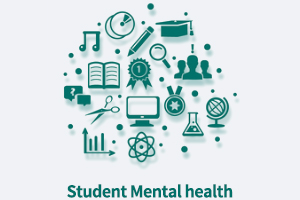
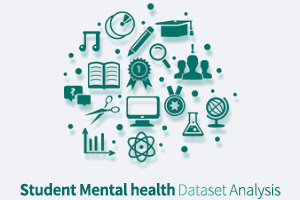
이미지 제목수정, 사이드바 내용 수정

Changed region(s): [[0.06, 0.9, 0.96, 1.0]]

diff --git a/app.py b/app.py
@@ -6,23 +6,22 @@ from app_ml import run_app_ml
 
 
 def main():
-    #sidebar
     img_url2 = 'img/smh_side_top.jpg'
     st.sidebar.image(img_url2)
-    st.sidebar.markdown(feature, unsafe_allow_html=True)
+    title = '<div style="color:#006D64; font-size:44px; font-weight:900;">Student Mental Health</div>'
+    st.markdown(title, unsafe_allow_html=True)
+    menu = ['Introduce', 'Exploratory Data Analysis', 'ML']
     choice = st.sidebar.selectbox('', menu) # 세 개 중 하나를 선택하면 뭔가 작동해야 하니까 변수로 만들어 줌 
+    
+    feature = '<div style="color:#666; font-size:15px; font-weight:300; padding:6px 10px 5px 10px;"><b style="color:#006D64; font-size:18px; font-weight:bold;">FEATURES</b></br>• Timestamp (Date, Time, Weekday)</br>•  Choose your gender (Gender)</br>•  Age</br>•  What is your course? (Course)</br>•  Your current year of Study (S-Year)</br>•  What is your CGPA? (CGPA)</br>•  Marital status</br>•  Do you have Depression? (Depression)</br>•  Do you have Anxiety? (Anxiety)</br>•  Do you have Panic attack? (Panic attack)</br>•  Did you seek any specialist for a treatment? (MH Treatment)</div>'
+    st.sidebar.markdown(feature, unsafe_allow_html=True)
+    
     if choice == menu[0] : 
         run_app_home()
     elif choice == menu[1] :
         run_app_eda()
     else : 
         run_app_ml()
-    menu = ['Introduce', 'Exploratory Data Analysis', 'ML']
-    feature = '<div style="color:#666; font-size:15px; font-weight:300; padding:6px 10px 5px 10px;"><b style="color:#006D64; font-size:18px; font-weight:bold;">FEATURES</b></br>• Timestamp (Date, Time, Weekday)</br>•  Choose your gender (Gender)</br>•  Age</br>•  What is your course? (Course)</br>•  Your current year of Study (S-Year)</br>•  What is your CGPA? (CGPA)</br>•  Marital status</br>•  Do you have Depression? (Depression)</br>•  Do you have Anxiety? (Anxiety)</br>•  Do you have Panic attack? (Panic attack)</br>•  Did you seek any specialist for a treatment? (MH Treatment)</div>'
-    
-    title = '<div style="color:#006D64; font-size:44px; font-weight:900;">Student Mental Health</div>'
-    st.markdown(title, unsafe_allow_html=True)
-
 
 if __name__ == '__main__' : 
     main()
